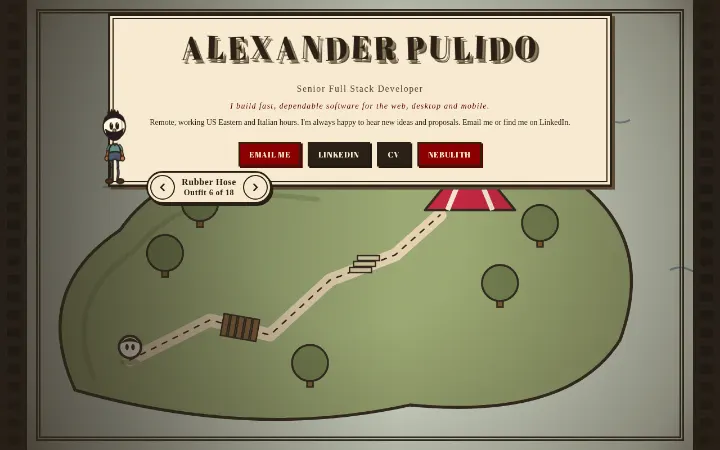
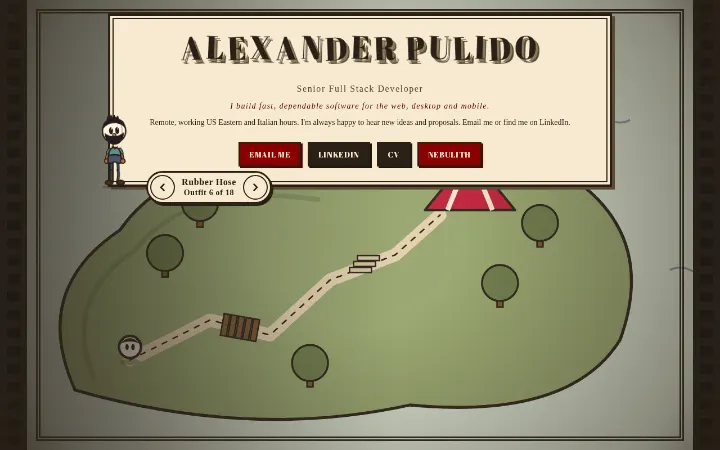
feat: Rubber Hose takes turns left and right down the page: from lg the first section after the title card has its cards on the left and the fight on the right, the next the other way round, and so on up to the K.O., on the engineer, drummer and fighter pages; a fight on the left keeps its order, hi

diff --git a/src/components/themes/RubberHose/scenes.tsx b/src/components/themes/RubberHose/scenes.tsx
@@ -26,6 +26,9 @@ import { TOON_STAND, type ToonPose } from './toon'
 
 export type SceneId = 'hero' | SectionId | 'contact'
 
+/** The half of the screen a scene plays on: right of its section's cards, or left of them. */
+export type Side = 'right' | 'left'
+
 /** Where the fighters stand: him on the left facing right, the boss on the right; their sizes. */
 export interface Layout {
   phone: boolean
@@ -35,12 +38,26 @@ export interface Layout {
   k: number
   /** The trapezes' spacing over the pit. */
   gap: number
+  /** The side the scene plays on. */
+  side: Side
+  /** The fight turned round the middle of a phone's view: the boss on the left, him on the right facing it. */
+  turned: boolean
 }
 
-const LAYOUT: Record<'wide' | 'phone', Layout> = {
-  wide: { phone: false, him: 740, boss: 1130, bossK: 1.05, k: 1.25, gap: 150 },
-  phone: { phone: true, him: 560, boss: 840, bossK: 0.78, k: 1.05, gap: 95 },
+const WIDE: Layout = { phone: false, him: 740, boss: 1130, bossK: 1.05, k: 1.25, gap: 150, side: 'right', turned: false }
+const PHONE: Layout = { phone: true, him: 560, boss: 840, bossK: 0.78, k: 1.05, gap: 95, side: 'right', turned: false }
+
+// The hero keeps its own place. A section's fight plays right of its cards, clear of their edge, or as far
+// left of them when they sit on the right, the same distance apart. A phone's view is too narrow to move the fight, so in its left
+// half he stands left facing the boss on the right, and in its right half the whole fight is turned round the
+// view's middle (PHONE_MIDDLE): the boss on the left and him on the right facing it, nothing lettered turned.
+const LAYOUTS: Record<'wide' | 'phone', Record<Side, Layout>> = {
+  wide: { right: { ...WIDE, him: 800, boss: 1190 }, left: { ...WIDE, him: 110, boss: 500, side: 'left' } },
+  phone: { right: { ...PHONE, turned: true }, left: { ...PHONE, side: 'left' } },
 }
+
+/** The middle of a phone's view of the ring, the line a turned fight is mirrored about. */
+export const PHONE_MIDDLE = 720
 
 export type ToonState = FigureState<ToonPose>
 
@@ -788,10 +805,11 @@ const contact: SceneDef = {
   kit: 'piston',
   him: true,
   back: () => null,
-  front: () => (
+  front: ({ turned }) => (
     <g data-fx="ko" opacity={0}>
       <path d="M-260 -10 L-200 -90 L-120 -60 L-60 -130 L20 -80 L90 -140 L150 -70 L240 -100 L220 -10 L280 50 L180 80 L210 150 L90 110 L20 170 L-60 110 L-150 150 L-140 70 L-250 60 Z" fill={HOSE.gold} stroke={INK} strokeWidth={8} strokeLinejoin="round" />
-      <text x={0} y={40} textAnchor="middle" fontFamily="var(--hose-lettering), serif" fontSize={140} fill={HOSE.red} stroke={INK} strokeWidth={6} paintOrder="stroke">
+      {/* in a turned fight the lettering is turned back, so it always reads */}
+      <text x={0} y={40} transform={turned ? 'scale(-1 1)' : undefined} textAnchor="middle" fontFamily="var(--hose-lettering), serif" fontSize={140} fill={HOSE.red} stroke={INK} strokeWidth={6} paintOrder="stroke">
         K.O.!
       </text>
     </g>
@@ -826,18 +844,29 @@ export interface Scene {
   slot: SectionSlot | null
 }
 
-const sceneOf = (id: SceneId, slot: SectionSlot | null, profession: Profession, phone: boolean): Scene => ({
+const sceneOf = (id: SceneId, slot: SectionSlot | null, profession: Profession, layout: Layout): Scene => ({
   id,
   def: SCENE_DEFS[id],
-  layout: LAYOUT[phone ? 'phone' : 'wide'],
+  layout,
   kit: profession,
   slot,
 })
 
-/** The page as scenes: the hero, one per section the profession shows in reading order, the contact. */
-export const scenesOf = (slots: readonly SectionSlot[], profession: Profession, phone: boolean): Scene[] => [
-  sceneOf('hero', null, profession, phone),
-  ...slots.map((slot) => sceneOf(slot.id, slot, profession, phone)),
-  sceneOf('contact', null, profession, phone),
-]
+/** The side of the section at `index` of the page (0 the first after the hero): the first plays right of its
+ *  cards, the next left of them, and so on up to the contact. */
+const sideOf = (index: number): Side => (index % 2 === 0 ? 'right' : 'left')
 
+/**
+ * The page as scenes: the hero, one per section the profession shows in reading order, the contact. With the
+ * cards beside the fight (`split`, from lg) or on a phone the sections take turns, right of their cards then
+ * left; a screen between the two keeps every fight on the right.
+ */
+export const scenesOf = (slots: readonly SectionSlot[], profession: Profession, phone: boolean, split: boolean): Scene[] => {
+  const mode = phone ? 'phone' : 'wide'
+  const layout = (index: number): Layout => LAYOUTS[mode][phone || split ? sideOf(index) : 'right']
+  return [
+    sceneOf('hero', null, profession, phone ? PHONE : WIDE),
+    ...slots.map((slot, i) => sceneOf(slot.id, slot, profession, layout(i))),
+    sceneOf('contact', null, profession, layout(slots.length)),
+  ]
+}

diff --git a/src/components/themes/RubberHoseTheme.tsx b/src/components/themes/RubberHoseTheme.tsx
@@ -52,8 +52,8 @@ const OUTFIT_LOOK: WardrobeLook = { plate: HOSE.paper, text: HOSE.ink, ring: HOS
 // of the fight, the calliope changing form as it escalates, and he shoots, jumps, dashes, slaps the pink
 // things away and fires his charged shot and his super; Contact is the knockout and his bow. Each scene's
 // one to three actions are played by the scroll, forward on the way down and back on the way up, at no more
-// than their own speed, on the shared theatre (./shared/theatre). The cards read in a column on the left from lg, so the fight plays clear of
-// them on the right. Under reduced motion there is no theatre: each section carries its own picture,
+// than their own speed, on the shared theatre (./shared/theatre). From lg the cards read in a column on the left and the fight plays clear of
+// them on the right, then the next section the other way round, up to the contact. Under reduced motion there is no theatre: each section carries its own picture,
 // still, at its end frame.
 //
 // The root carries the palette as --hose-* variables (the one inline style, variables only), the pointer
@@ -61,8 +61,13 @@ const OUTFIT_LOOK: WardrobeLook = { plate: HOSE.paper, text: HOSE.ink, ring: HOS
 // overflow-x: clip, not hidden: hidden would make the root a scroll container.
 
 const PHONE_QUERY = '(max-width: 767.98px)'
+// From lg the cards and the fight sit side by side, so there the sections take turns: cards left, then right.
+const SPLIT_QUERY = '(min-width: 1024px)'
 
 const CONTACT_HEADING = headingId('hose', 'Contact')
+
+/** From lg the contact card sits on the side away from the knockout, as every section's cards do. */
+const CONTACT_SIDE: Record<Scene['layout']['side'], string> = { right: 'lg:mx-0', left: 'lg:ml-auto lg:mr-0' }
 
 export default function RubberHoseTheme() {
   const { active } = useProfession()
@@ -72,10 +77,11 @@ export default function RubberHoseTheme() {
   const { cv, engine } = useSiteLinks('engine')
   const reduced = useReducedMotion()
   const phone = useMediaQuery(PHONE_QUERY)
+  const split = useMediaQuery(SPLIT_QUERY)
   const rootRef = usePointerVars(!reduced)
   const scenes = useMemo(
-    () => scenesOf(sectionPlan(view.sections, professionalSummary.bio), active, phone),
-    [view.sections, professionalSummary.bio, active, phone],
+    () => scenesOf(sectionPlan(view.sections, professionalSummary.bio), active, phone, split),
+    [view.sections, professionalSummary.bio, active, phone, split],
   )
   const staged = useMemo(() => scenes.map(theatreScene), [scenes])
   const { theatreRef, textRef } = useTheatre(staged, LAYER_MOTION, reduced)
@@ -141,11 +147,11 @@ export default function RubberHoseTheme() {
             ))}
           </ProfessionRegion>
 
-          <section data-scene={contact.id} className="relative px-2 pb-8 pt-[60svh] max-md:pt-[100svh] sm:px-6 lg:px-[6vw]" aria-labelledby={CONTACT_HEADING}>
+          <section data-scene={contact.id} className="relative px-2 pb-8 pt-[60svh] max-md:pt-[130svh] sm:px-6 lg:px-[6vw]" aria-labelledby={CONTACT_HEADING}>
             {reduced && <HoseStage scene={contact} settled />}
             <RecruiterHero
               render={({ line, actions }) => (
-                <div className={`relative mx-auto max-w-3xl p-6 text-center sm:text-left lg:mx-0 lg:max-w-[40vw] ${world.titleCard}`}>
+                <div className={`relative mx-auto max-w-3xl p-6 text-center sm:text-left lg:max-w-[40vw] ${CONTACT_SIDE[contact.layout.side]} ${world.titleCard}`}>
                   <h2 id={CONTACT_HEADING} className={`mb-3 text-2xl uppercase ${world.lettering} ${world.dropText}`}>
                     {sections.contact}
                   </h2>

diff --git a/src/components/themes/RubberHose/stage.tsx b/src/components/themes/RubberHose/stage.tsx
@@ -9,12 +9,12 @@ import { fadeTo, fx, transformTo } from '../shared/stageNodes'
 import { ARENA_LAYERS, GROUND, arenaPlane } from './arena'
 import { Calliope } from './boss'
 import { sceneEnd, type Playhead } from '@/lib/scroll/player'
-import { Effects, type Scene } from './scenes'
+import { Effects, PHONE_MIDDLE, type Scene, type Side } from './scenes'
 import { StageToon, setToonPose, toonJoints } from './toon'
 import css from './stage.module.css'
 
 // One scene's picture on the shared theatre (../shared/theatre): the big top's layers (arena.tsx), then the
-// fight in the figure layer, in one camera group the writer pushes in on at a big hit: the scene's floor,
+// fight in the figure layer (turned round on a phone's right half), in one camera group the writer pushes in on at a big hit: the scene's floor,
 // the calliope, him, the effects and the scene's own front (the map of the hero, the knockout lettering).
 // The scene's writer plays its script and hands back his place and pose.
 
@@ -56,19 +56,27 @@ function Toon({ scene }: { scene: Scene }) {
   )
 }
 
+/** A turned fight, mirrored about the middle of a phone's view. */
+const TURNED = `translate(${2 * PHONE_MIDDLE} 0) scale(-1 1)`
+
+/** The scrim under the cards, on the side they sit (a fight on the right has them on the left). */
+const SCRIM: Record<Side, string> = { right: css.cardsLeft, left: css.cardsRight }
+
 const layersOf = (scene: Scene): StageLayer[] => [
   ...ARENA_LAYERS,
   {
     name: 'figure',
     node: arenaPlane(
-      <g data-fx="camera">
-        {scene.def.back(scene.layout, scene.kit)}
-        <g data-fx="boss" transform={`translate(${scene.layout.boss} ${GROUND}) scale(${scene.layout.bossK})`}>
-          <Calliope kit={scene.def.kit} />
+      <g transform={scene.layout.turned ? TURNED : undefined}>
+        <g data-fx="camera">
+          {scene.def.back(scene.layout, scene.kit)}
+          <g data-fx="boss" transform={`translate(${scene.layout.boss} ${GROUND}) scale(${scene.layout.bossK})`}>
+            <Calliope kit={scene.def.kit} />
+          </g>
+          {scene.def.him && <Toon scene={scene} />}
+          <Effects kit={scene.kit} />
+          {scene.def.front?.(scene.layout)}
         </g>
-        {scene.def.him && <Toon scene={scene} />}
-        <Effects kit={scene.kit} />
-        {scene.def.front?.(scene.layout)}
       </g>,
     ),
   },
@@ -76,5 +84,5 @@ const layersOf = (scene: Scene): StageLayer[] => [
 
 /** A scene's stage in the theatre or, `settled`, still at the top of its own section under reduced motion. */
 export const HoseStage = memo(function HoseStage({ scene, settled = false }: { scene: Scene; settled?: boolean }) {
-  return <Stage scene={theatreScene(scene)} layers={layersOf(scene)} motion={LAYER_MOTION} settled={settled} className={css.reel} />
+  return <Stage scene={theatreScene(scene)} layers={layersOf(scene)} motion={LAYER_MOTION} settled={settled} className={`${css.reel} ${SCRIM[scene.layout.side]}`} />
 })

diff --git a/src/components/themes/RubberHose/sections.tsx b/src/components/themes/RubberHose/sections.tsx
@@ -160,6 +160,9 @@ const CARDS: { [Id in SectionId]: (props: { slot: SlotOf<Id> }) => ReactNode } =
   muayThai: RecordCards,
 }
 
+/** From lg a section's banner and cards sit away from the fight: left of one on the right, right of one on the left. */
+const CARDS_SIDE: Record<Scene['layout']['side'], string> = { right: '', left: 'lg:ml-auto' }
+
 interface SceneSectionProps {
   scene: Scene
   slot: SectionSlot
@@ -175,10 +178,10 @@ export function SceneSection({ scene, slot, still }: SceneSectionProps) {
   return (
     <section data-scene={scene.id} aria-labelledby={id} className="relative px-4 pb-[60svh] motion-reduce:pb-16 sm:px-6 lg:px-[6vw]">
       {still && <HoseStage scene={scene} settled />}
-      <header className="relative flex min-h-[90svh] max-w-[42rem] items-end justify-center pb-4 motion-reduce:min-h-[70svh] max-md:min-h-[130svh] max-md:items-start max-md:pt-16 lg:max-w-[40vw]">
+      <header className={`relative flex min-h-[90svh] max-w-[42rem] items-end justify-center pb-4 motion-reduce:min-h-[70svh] max-md:min-h-[130svh] max-md:items-start max-md:pt-16 lg:max-w-[40vw] ${CARDS_SIDE[scene.layout.side]}`}>
         <CurlBanner id={id}>{title}</CurlBanner>
       </header>
-      <div className="relative max-w-[42rem] lg:max-w-[40vw]">
+      <div className={`relative max-w-[42rem] lg:max-w-[40vw] ${CARDS_SIDE[scene.layout.side]}`}>
         <Cards slot={slot} />
       </div>
     </section>

diff --git a/src/components/themes/RubberHose/stage.module.css b/src/components/themes/RubberHose/stage.module.css
@@ -1,5 +1,5 @@
 /* Rubber Hose's look on the shared theatre's stages (../shared/theatre): a scrim of the film's dark under
-   the text column, so the paper cards' edges and the banners read on the brightest set (the meadow's pale
+   the text column, on the side the cards sit, so the paper cards' edges and the banners read on the brightest set (the meadow's pale
    sky); it fades with its stage. The theatre's ground is the film's black (--theatre-ground on the world's
    root). */
 
@@ -7,11 +7,20 @@
   content: '';
   position: absolute;
   inset: 0;
+}
+
+.cardsLeft::after {
   background: linear-gradient(to right, color-mix(in srgb, var(--hose-film) 55%, transparent), transparent 55%);
 }
 
+.cardsRight::after {
+  background: linear-gradient(to left, color-mix(in srgb, var(--hose-film) 55%, transparent), transparent 55%);
+}
+
+/* A phone stacks the cards under the fight, whichever side it plays on. */
 @media (max-width: 767.98px) {
-  .reel::after {
+  .cardsLeft::after,
+  .cardsRight::after {
     background: linear-gradient(to top, color-mix(in srgb, var(--hose-film) 55%, transparent), transparent 55%);
   }
 }
